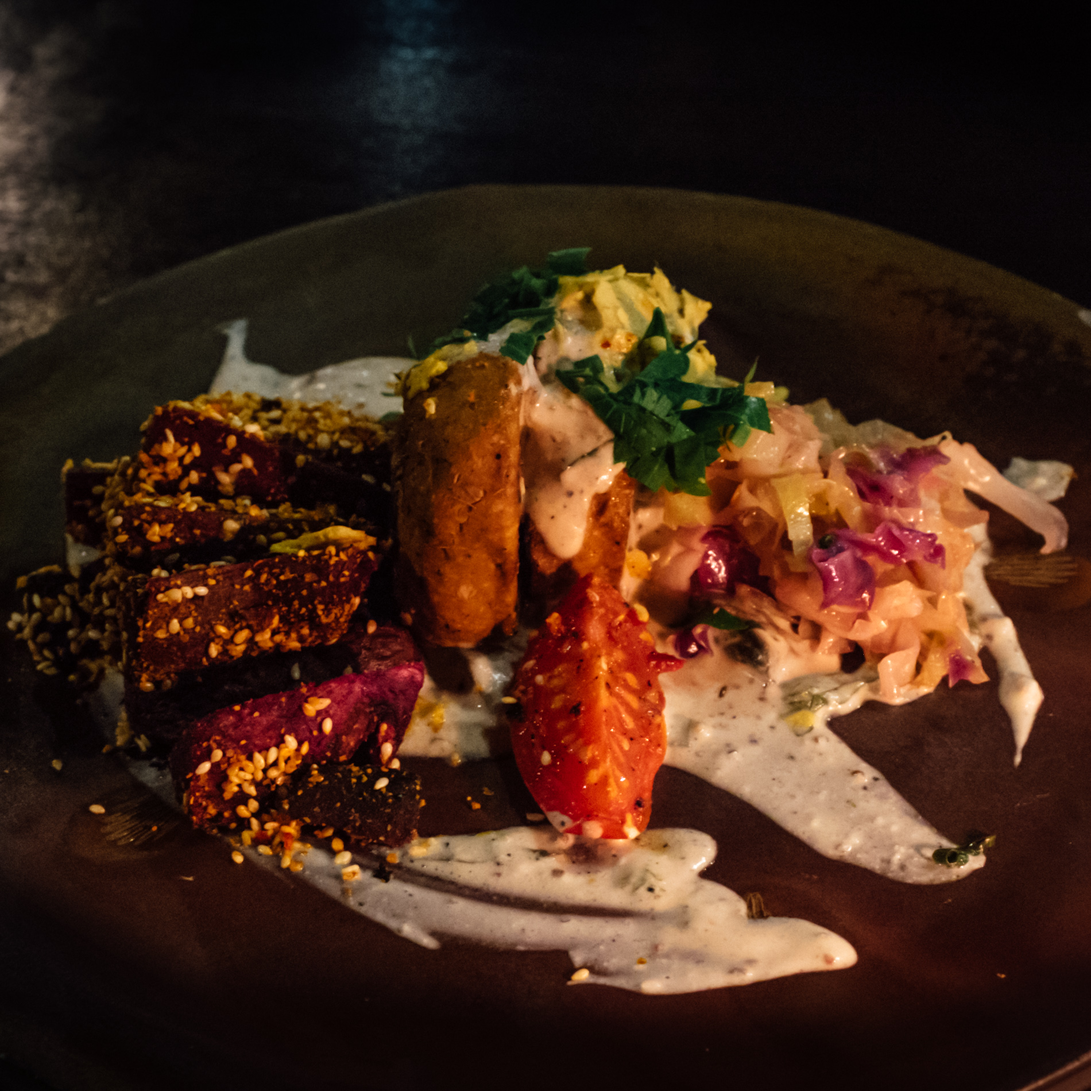
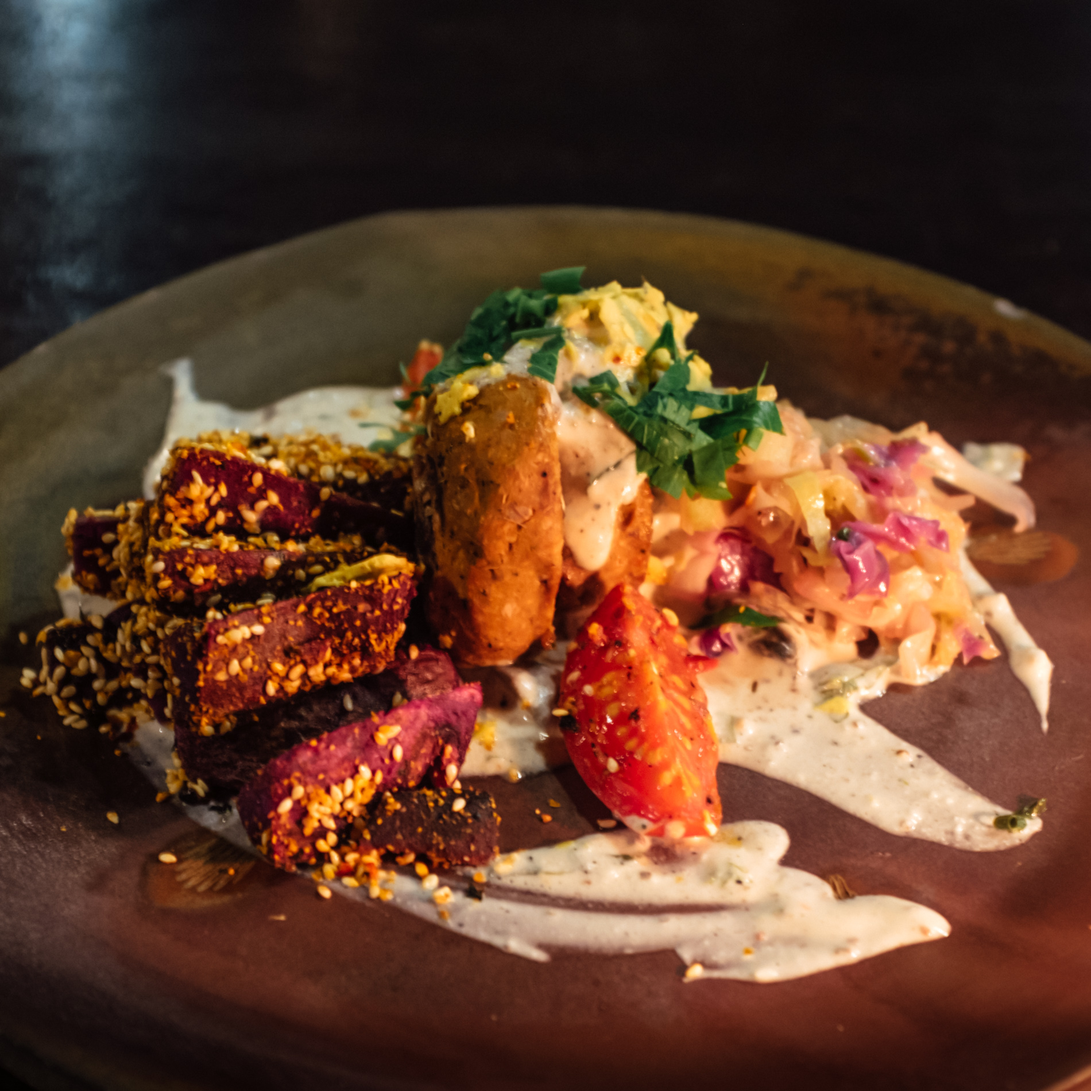
Swaps out coverphoto.

diff --git a/pages/blog/2017-08-31-foodie-in-bali/index.md b/pages/blog/2017-08-31-foodie-in-bali/index.md
@@ -4,8 +4,7 @@ date: '2017-08-31T20:34:38.633Z'
 layout: post
 path: '/veganish-bali/'
 readNext: '/bali-cooking/'
-coverPhoto: 'kismet_round_two_classic_deconstructed_skewers.jpg'
-draft: true
+coverPhoto: 'moksa_main_dish.jpg'
 ---
 With a quick glance at the recipes in my post about [cooking in Bali](/bali-cooking/), one might think my culinary adventures in Bali were predominately chicken-based. However, outside of the wedding and cooking class, my most enjoyable meals were vegetarian (and at sometimes vegan). The ubiquity of raw, vegan, or vegetarian restaurant menus in Bali took me by surprise.
 
